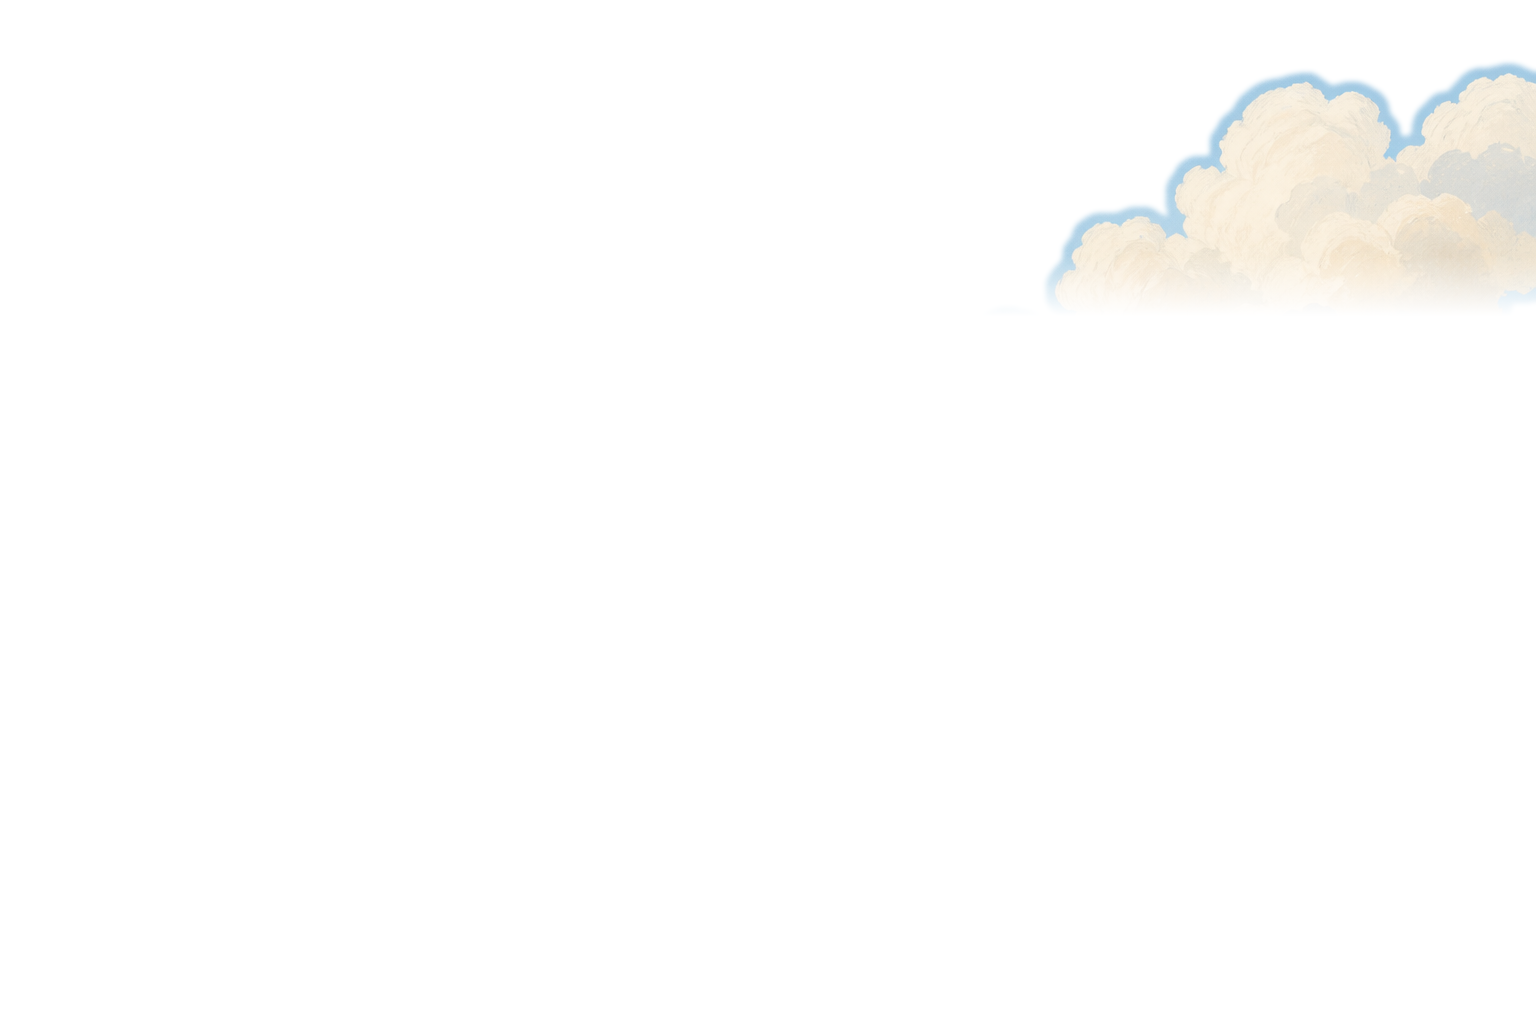
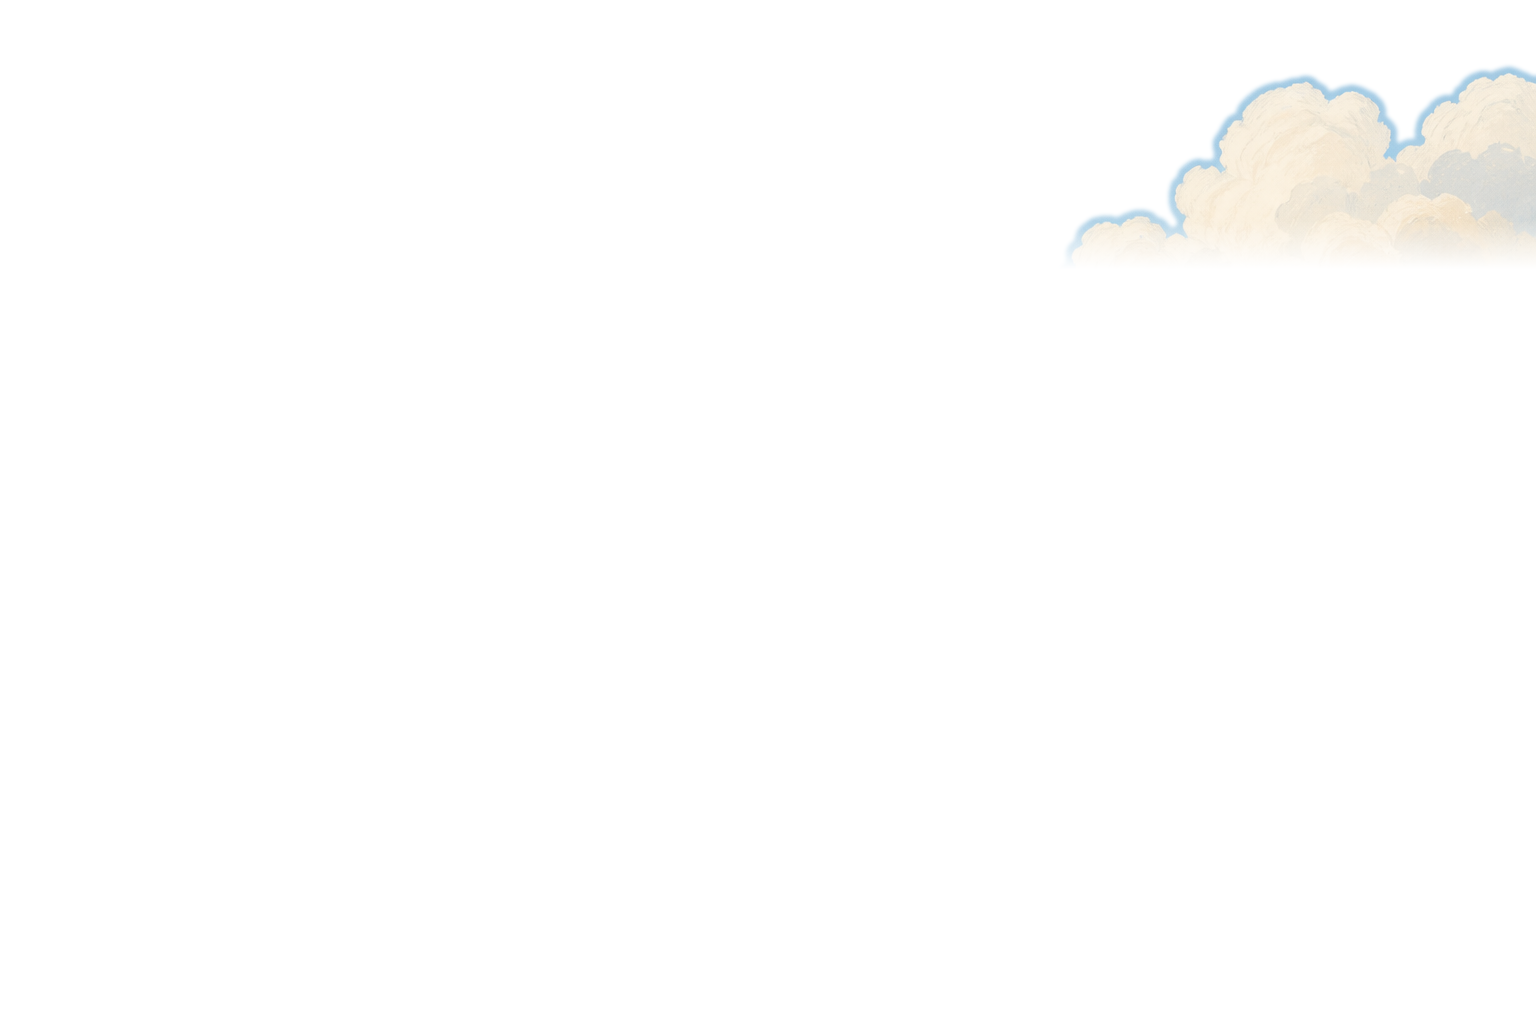
Keep the cloud cut above the skyline.
Only the upper painted mass moves, so the towers and the river
stay exactly as they are in the illustration.

diff --git a/public/index.html b/public/index.html
@@ -53,8 +53,8 @@
   .sky-drift {
     position: absolute; inset: 0;
     overflow: hidden; pointer-events: none; z-index: 1;
-    -webkit-mask-image: linear-gradient(180deg, #000 46%, transparent 56%);
-    mask-image: linear-gradient(180deg, #000 46%, transparent 56%);
+    -webkit-mask-image: linear-gradient(180deg, #000 40%, transparent 50%);
+    mask-image: linear-gradient(180deg, #000 40%, transparent 50%);
   }
   .painted {
     position: absolute; inset: 0;
